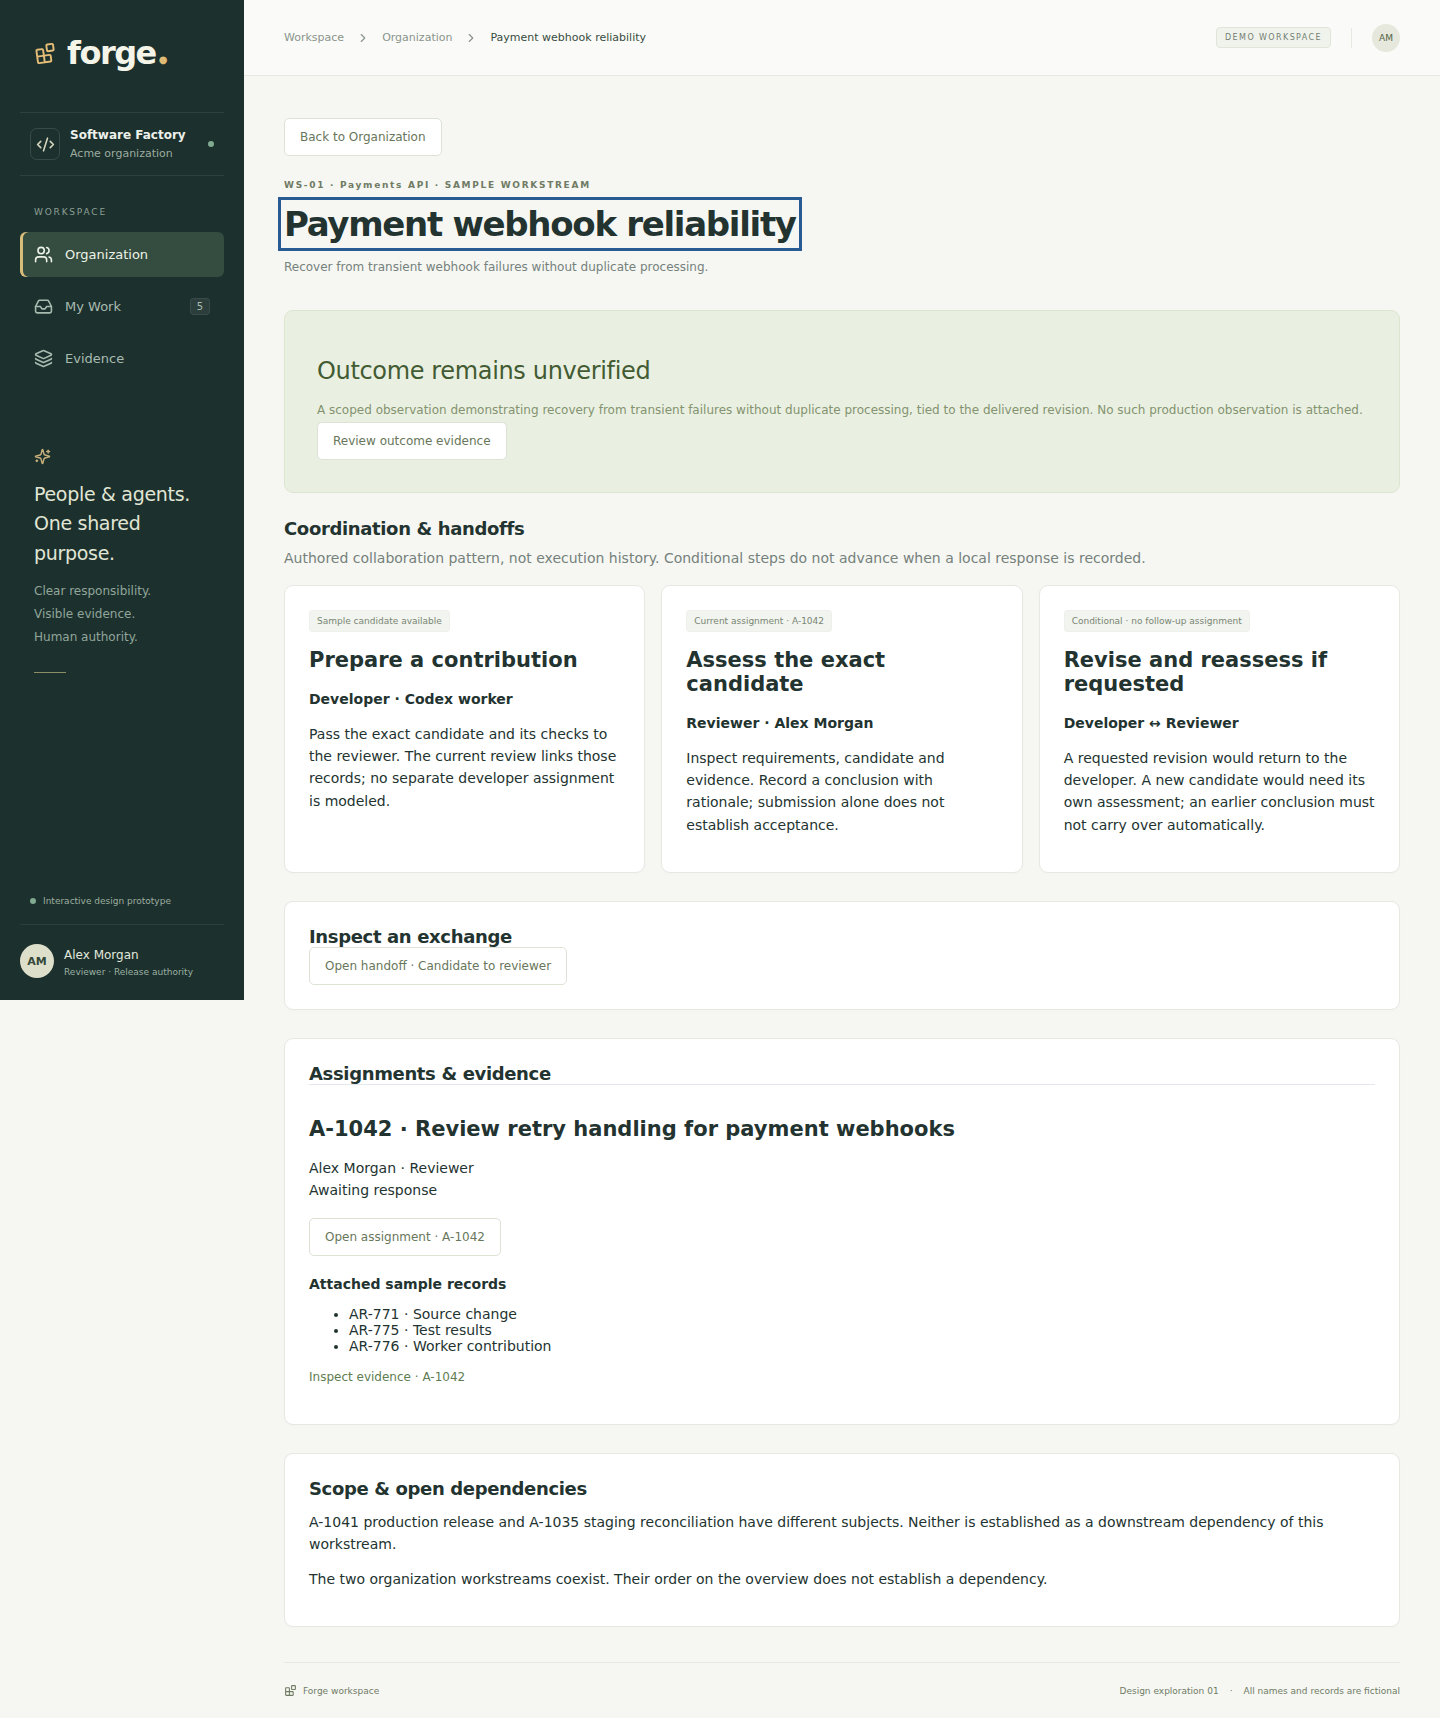
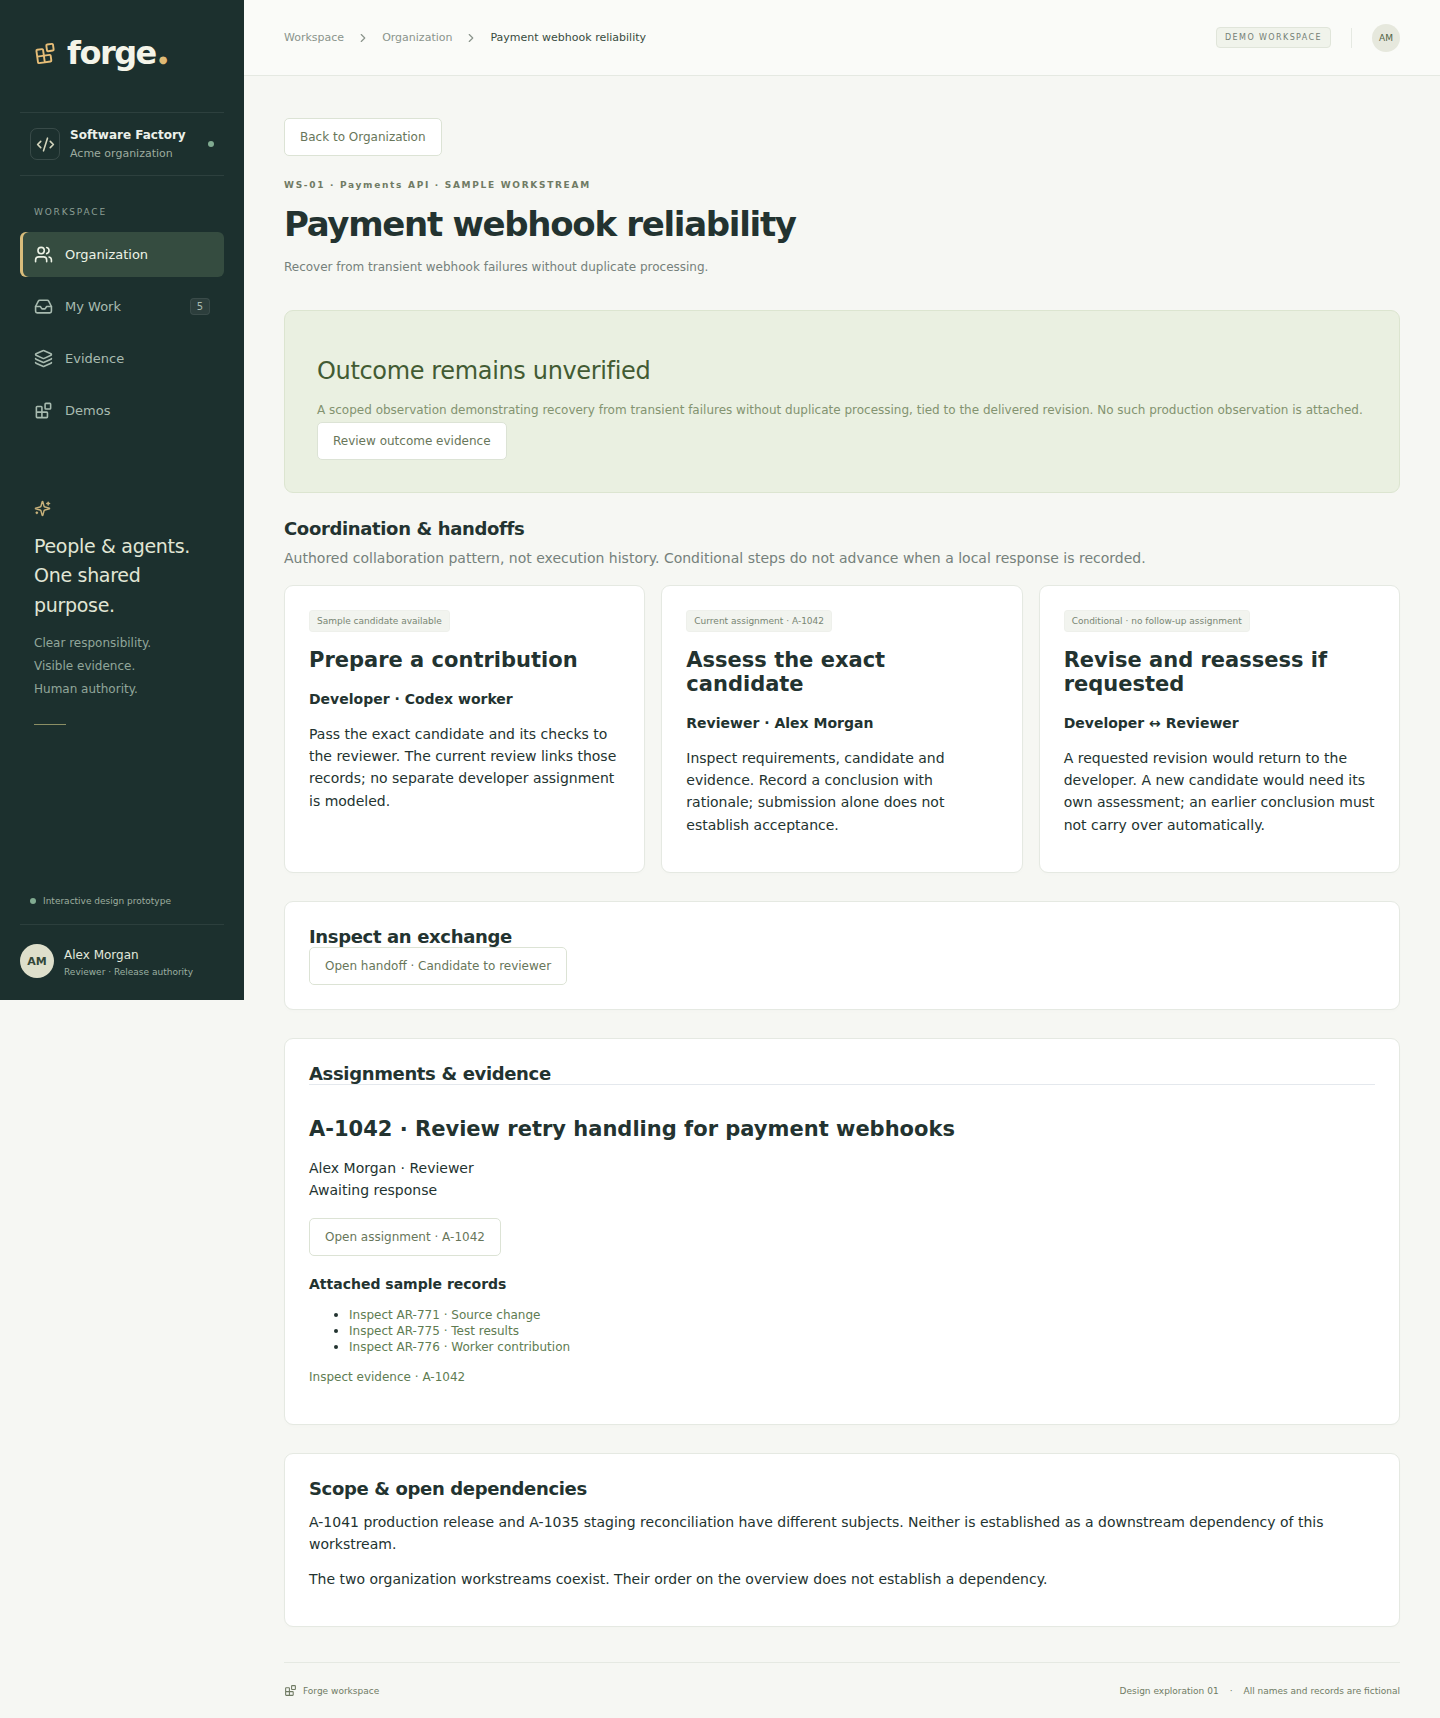
Open exact artifacts from organization detail views

Changed region(s): [[0.0, 0.2776, 0.125, 0.401], [0.25, 0.7404, 0.375, 0.8021]]

diff --git a/ui-design/tests/workspace.spec.ts b/ui-design/tests/workspace.spec.ts
@@ -2134,6 +2134,12 @@ test("organization activity scopes evidence and session responses without invent
   await records
     .getByRole("button", { name: "Inspect record · AR-771" })
     .click();
+  await expect(page.getByRole("dialog")).toContainText("AR-771");
+  await page.keyboard.press("Escape");
+  await records
+    .getByRole("button", { name: "Assignment activity · A-1042" })
+    .first()
+    .click();
   await expect(page).toHaveURL(/assignments\/A-1042\/activity/);
   await page
     .getByRole("button", { name: "Submit assessment", exact: true })
@@ -2198,7 +2204,12 @@ test("outcome review keeps goal evidence gaps independent from assignment respon
   await requirements
     .getByRole("button", { name: /Inspect supporting context · AR-775/ })
     .click();
-  await expect(page).toHaveURL(/assignments\/A-1042\/evidence/);
+  await expect(page.getByRole("dialog")).toContainText("AR-775");
+  await page.keyboard.press("Escape");
+  await page
+    .getByRole("button", { name: "Inspect assignment · A-1042" })
+    .click();
+  await expect(page).toHaveURL(/assignments\/A-1042\/overview/);
   await page
     .getByRole("button", { name: "Submit assessment", exact: true })
     .click();
@@ -2365,4 +2376,41 @@ test("overview separates personal queue and standalone demos", async ({
       () => document.documentElement.scrollWidth <= innerWidth,
     ),
   ).toBeTruthy();
+});
+
+test("exact artifact links preserve source routes filters and keyboard focus", async ({
+  page,
+}) => {
+  for (const [route, button, id] of [
+    ["/#/workstreams/WS-01", "Inspect AR-776 · Worker contribution", "AR-776"],
+    ["/#/handoffs/payment-review", "Inspect AR-771 · Source change", "AR-771"],
+    [
+      "/#/outcomes/WS-01",
+      "Inspect supporting context · AR-775 · Test results",
+      "AR-775",
+    ],
+  ]) {
+    await page.goto(route);
+    const trigger = page.getByRole("button", { name: button, exact: true });
+    await trigger.focus();
+    await page.keyboard.press("Enter");
+    await expect(page.getByRole("dialog")).toContainText(id);
+    await expect(page.getByRole("dialog")).toContainText("A-1042");
+    await expect(page).toHaveURL(route);
+    await page.keyboard.press("Escape");
+    await expect(trigger).toBeFocused();
+  }
+  await page.goto("/#/organization/activity");
+  await page.getByLabel("Activity scope").selectOption("other");
+  await page.getByRole("button", { name: "Inspect record · AR-801" }).click();
+  await expect(page.getByRole("dialog")).toContainText("AR-801");
+  await expect(page.getByRole("dialog")).toContainText("A-1041");
+  await page.setViewportSize({ width: 390, height: 844 });
+  expect(
+    await page.evaluate(
+      () => document.documentElement.scrollWidth <= innerWidth,
+    ),
+  ).toBeTruthy();
+  await page.keyboard.press("Escape");
+  await expect(page.getByLabel("Activity scope")).toHaveValue("other");
 });

diff --git a/ui-design/src/OrganizationActivity.tsx b/ui-design/src/OrganizationActivity.tsx
@@ -1,3 +1,4 @@
+import type { EvidenceArtifact } from "./data/evidence";
 import { useState } from "react";
 import { assignments } from "./data/assignments";
 import { evidenceArtifacts } from "./data/evidence";
@@ -7,10 +8,12 @@ import type { Assignment, ResponseRecord } from "./data/models";
 export function OrganizationActivity({
   receipts,
   onOpen,
+  onInspect,
   onBack,
 }: {
   receipts: ResponseRecord[];
   onOpen: (assignment: Assignment, tab?: string) => void;
+  onInspect: (artifact: EvidenceArtifact) => void;
   onBack: () => void;
 }) {
   const [scope, setScope] = useState("all");
@@ -152,12 +155,17 @@ export function OrganizationActivity({
                 </h3>
                 <p>{record.detail}</p>
                 <p>Producer: {record.producer}</p>
-                <button
-                  className="text-link"
-                  onClick={() => open(record.assignmentId)}
-                >
+                <button className="text-link" onClick={() => onInspect(record)}>
                   Inspect record · {record.id}
                 </button>
+                <p>
+                  <button
+                    className="text-link"
+                    onClick={() => open(record.assignmentId)}
+                  >
+                    Assignment activity · {record.assignmentId}
+                  </button>
+                </p>
               </article>
             ))}
             {evidence.length === 0 && (

diff --git a/ui-design/src/WorkstreamDetail.tsx b/ui-design/src/WorkstreamDetail.tsx
@@ -1,3 +1,4 @@
+import type { EvidenceArtifact } from "./data/evidence";
 import { handoffs } from "./data/handoffs";
 import type { Assignment } from "./data/models";
 import type { Workstream } from "./data/organizationOverview";
@@ -9,6 +10,7 @@ export function WorkstreamDetail({
   stream,
   completed,
   onOpen,
+  onInspect,
   onBack,
   onHandoff,
   onOutcome,
@@ -16,6 +18,7 @@ export function WorkstreamDetail({
   stream: Workstream;
   completed: Record<string, string>;
   onOpen: (assignment: Assignment, tab?: string) => void;
+  onInspect: (artifact: EvidenceArtifact) => void;
   onBack: () => void;
   onHandoff: (id: string) => void;
   onOutcome: () => void;
@@ -130,7 +133,12 @@ export function WorkstreamDetail({
                   <ul>
                     {evidence.map((record) => (
                       <li key={record.id}>
-                        {record.id} · {record.title}
+                        <button
+                          className="text-link"
+                          onClick={() => onInspect(record)}
+                        >
+                          Inspect {record.id} · {record.title}
+                        </button>
                       </li>
                     ))}
                   </ul>

diff --git a/ui-design/src/main.tsx b/ui-design/src/main.tsx
@@ -1231,6 +1231,7 @@ function App() {
           )}
           {view === "Organization" && stream && (
             <WorkstreamDetail
+              onInspect={setArtifact}
               stream={stream}
               onOutcome={() =>
                 changeRoute({
@@ -1263,6 +1264,7 @@ function App() {
           )}
           {view === "Organization" && handoff && (
             <HandoffDetail
+              onInspect={setArtifact}
               handoff={handoff}
               completed={completed}
               onOpen={open}
@@ -1278,6 +1280,7 @@ function App() {
           )}
           {view === "Organization" && outcome && outcomeStream && (
             <OutcomeReview
+              onInspect={setArtifact}
               stream={outcomeStream}
               outcome={outcome}
               completed={completed}
@@ -1312,6 +1315,7 @@ function App() {
           )}
           {view === "Organization" && route.organizationActivity && (
             <OrganizationActivity
+              onInspect={setArtifact}
               receipts={receipts}
               onOpen={open}
               onBack={() => navigate("Organization")}

diff --git a/ui-design/src/HandoffDetail.tsx b/ui-design/src/HandoffDetail.tsx
@@ -1,3 +1,4 @@
+import type { EvidenceArtifact } from "./data/evidence";
 import type { Assignment } from "./data/models";
 import { assignments } from "./data/assignments";
 import { evidenceFor } from "./data/evidence";
@@ -7,11 +8,13 @@ export function HandoffDetail({
   handoff,
   completed,
   onOpen,
+  onInspect,
   onBack,
 }: {
   handoff: Handoff;
   completed: Record<string, string>;
   onOpen: (assignment: Assignment, tab?: string) => void;
+  onInspect: (artifact: EvidenceArtifact) => void;
   onBack: () => void;
 }) {
   const assignment = assignments.find((a) => a.id === handoff.assignmentId);
@@ -104,7 +107,12 @@ export function HandoffDetail({
             <ul>
               {records.map((record) => (
                 <li key={record.id}>
-                  {record.id} · {record.title}
+                  <button
+                    className="text-link"
+                    onClick={() => onInspect(record)}
+                  >
+                    Inspect {record.id} · {record.title}
+                  </button>
                 </li>
               ))}
             </ul>

diff --git a/ui-design/src/OutcomeReview.tsx b/ui-design/src/OutcomeReview.tsx
@@ -1,3 +1,4 @@
+import type { EvidenceArtifact } from "./data/evidence";
 import { assignments } from "./data/assignments";
 import { evidenceArtifacts } from "./data/evidence";
 import type { Assignment } from "./data/models";
@@ -9,12 +10,14 @@ export function OutcomeReview({
   outcome,
   completed,
   onOpen,
+  onInspect,
   onBack,
 }: {
   stream: Workstream;
   outcome: Outcome;
   completed: Record<string, string>;
   onOpen: (assignment: Assignment, tab?: string) => void;
+  onInspect: (artifact: EvidenceArtifact) => void;
   onBack: () => void;
 }) {
   return (
@@ -80,7 +83,7 @@ export function OutcomeReview({
                   <p key={id}>
                     <button
                       className="text-link"
-                      onClick={() => onOpen(assignment, "Evidence")}
+                      onClick={() => onInspect(record)}
                     >
                       Inspect supporting context · {id} · {record.title}
                     </button>

diff --git a/ui-design/ORGANIZATION-MODEL.md b/ui-design/ORGANIZATION-MODEL.md
@@ -34,8 +34,10 @@ Two explicit sample exchanges are defined in `handoffs.ts`: candidate to reviewe
 
 ## Organization activity
 
-`#/organization/activity` combines session response receipts and attached sample evidence across modeled workstreams. The Other organization work filter covers assignments with no authored stream membership. Responses are ordered by recording time; undated evidence is presented separately and has no inferred publication sequence. Filters reset when leaving the page; refresh clears local responses. Source links open assignment Activity for full receipt or artifact inspection.
+`#/organization/activity` combines session response receipts and attached sample evidence across modeled workstreams. The Other organization work filter covers assignments with no authored stream membership. Responses are ordered by recording time; undated evidence is presented separately and has no inferred publication sequence. Filters reset when leaving the page; refresh clears local responses. Receipt links open assignment Activity. Artifact links open the exact record in the shared inspector, preserving the activity scope and source route.
 
 ## Outcome review
 
 `#/outcomes/WS-01` and `#/outcomes/WS-02` show proposed goal-level evidence requirements, available context, missing observations and unassigned outcome-review responsibility. `outcomes.ts` explicitly links context records to criteria within the corresponding stream. Existing assignment assessments do not verify these requirements, even when their conclusion is Meets criteria. The view is read-only: no goal decision or automatic completion calculation is introduced.
+
+Exact cited artifact links in workstream, handoff and outcome views open the shared inspector on the current page. Closing restores focus to the originating link. Assignment-level evidence links still open the containing tab when the link refers to a collection rather than one record. No artifact inspection confirms its provenance or outcome.

diff --git a/ui-design/WALKTHROUGH.md b/ui-design/WALKTHROUGH.md
@@ -118,10 +118,12 @@ Select **View organization activity**. Filter to Payment webhook reliability to 
 
 ## Review an outcome
 
-Open Payment webhook reliability and choose **Review outcome evidence**. Compare recovery and duplicate-processing requirements with the attached source, notes and historical test fixture. Inspect supporting context; recording an assignment assessment leaves the outcome unverified. The invitation outcome has no attached context records and needs criteria, implementation identity and observed behavior. Outcome-review responsibility remains unassigned in both samples.
+Open Payment webhook reliability and choose **Review outcome evidence**. Compare recovery and duplicate-processing requirements with the attached source, notes and historical test fixture. Inspect supporting context to open that exact artifact without leaving Outcome review. Close the inspector to return to the source link. Recording an assignment assessment leaves the outcome unverified. The invitation outcome has no attached context records and needs criteria, implementation identity and observed behavior. Outcome-review responsibility remains unassigned in both samples.
 
 ## Move around the overview
 
 Use Goals & workstreams, Attention or Roles & workers shortcuts to scroll and focus the corresponding heading. Expand Other organization work or Responsibility gaps for secondary explanations. On detail pages, the header shows the current subject; its Organization button returns to the overview. The long subject label truncates visually on mobile.
 
 The standalone revision cycle is now reached through **Demos** (`#/demos`). Organization Overview focuses on goals, scoped workers and coordination. The grouped personal queue is reached from My Work at `#/work/attention`.
+
+Artifact IDs in Workstream, Handoff and Organization activity also open their exact records directly. Collection links and assignment links still open the relevant assignment tab.

diff --git a/ui-design/ITERATIONS.md b/ui-design/ITERATIONS.md
@@ -483,3 +483,11 @@ Moved Alex's grouped response queue to `#/work/attention`, reached from My Work.
 Organization Overview no longer embeds either section. Its organization attention summary and role/workstream links remain the coordination entry. Queue navigation preserves work-filter context and avoids treating queue-origin assignments as opened inbox rows. Added route/focus/mobile coverage and migrated queue/revision/large-fixture tests to their new locations. Updated the model, walkthrough, review priorities and capture script; refreshed inbox/overview previews and added a queue preview.
 
 Validation: production build and all 51 browser tests passed, including large fixture layouts, personal response-state filters, receipt navigation, revision identity/focus, independent demo reset and the new entry/route separation. Refreshed organization preview was visually inspected.
+
+## 47 — Exact cited artifact inspection
+
+Cited record links in Outcome review and Organization activity now open their exact artifact in the shared inspector on the source page. Workstream and Handoff record lists also expose exact inspection links. Assignment Activity remains available from organization evidence entries for broader context, and collection-level evidence links retain their existing tab navigation.
+
+Inspection preserves the source route and filters; Escape/close restores the originating link's focus. Existing sample identity/provenance explanations remain in the inspector. Updated review priorities, walkthrough/model and capture script, refreshed four detail previews and added a direct outcome-artifact preview.
+
+Validation: production build and six relevant browser tests passed, covering exact records/assignment scope, source URL preservation, filter retention, keyboard focus, mobile overflow, response/outcome distinction and existing modal containment. The exact-artifact preview was visually inspected.

diff --git a/ui-design/UI-REVIEW.md b/ui-design/UI-REVIEW.md
@@ -14,7 +14,7 @@ Remaining opportunities, in priority order:
 
 Completed next increment: the overview now shows three attention counts linked to a dedicated list, with durable category URLs.
 Completed: the Alex queue now lives under My Work and the standalone revision cycle has a Demos entry.
-1. Let related-record links open the exact cited artifact rather than the assignment's containing tab.
-2. Review shared spacing, empty states and contextual return paths across all detail pages.
+Completed: cited artifact links in workstreams, handoffs, outcomes and organization activity open the exact record in the inspector while preserving their source page.
+1. Review shared spacing, empty states and contextual return paths across all detail pages.
 
 This increment keeps the authored sample model and existing response semantics. The review does not establish production API compatibility.

diff --git a/ui-design/README.md b/ui-design/README.md
@@ -191,3 +191,5 @@ The overview has section shortcuts for Goals, Attention and Roles & Workers. Add
 Attention is now a compact three-category summary on the overview. Select a count or **View all organization attention** for the dedicated list. Category URLs preserve the filter across refresh and history.
 
 **My Work → View response queue · Alex** opens the personal assignments grouped by response state. **Demos** opens the independent revision-cycle example. Both are now outside Organization Overview.
+
+Cited artifact links now open the exact record in the inspector from workstreams, handoffs, outcome review and organization activity. Closing preserves the current route and filters and restores keyboard focus. [Exact artifact preview](previews/29-outcome-artifact-inspector.png).
